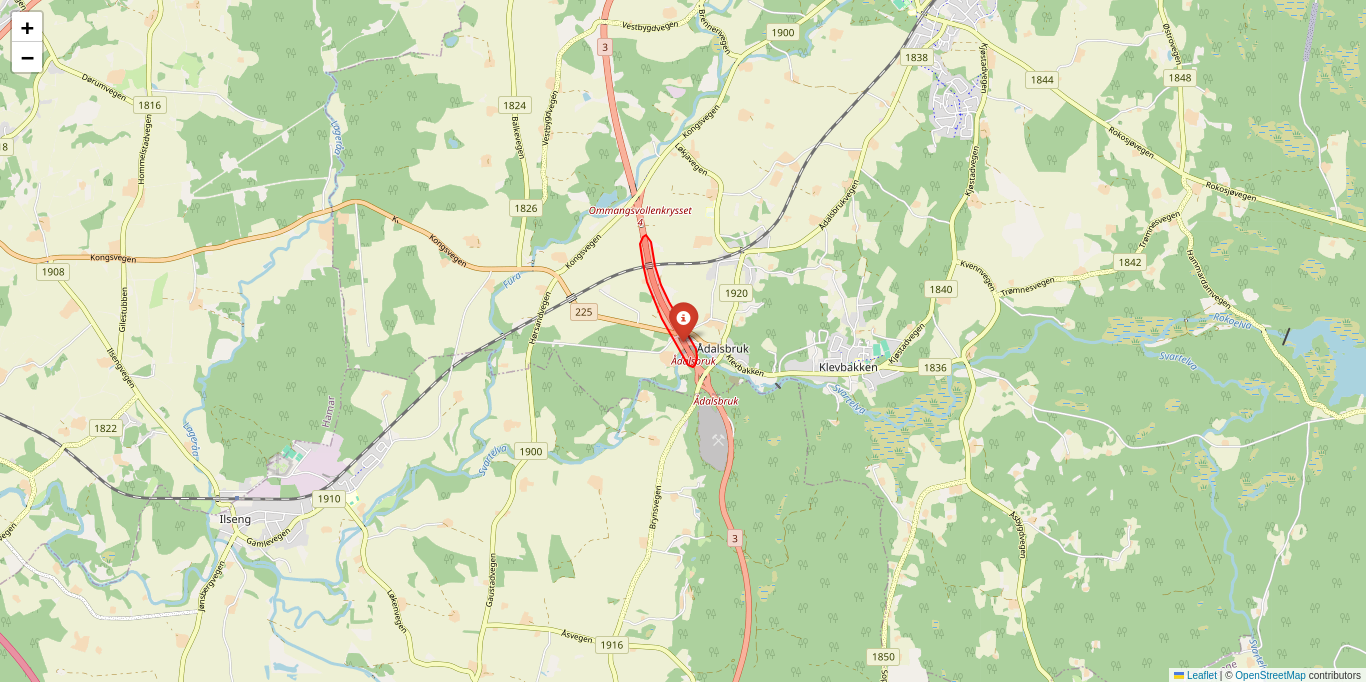
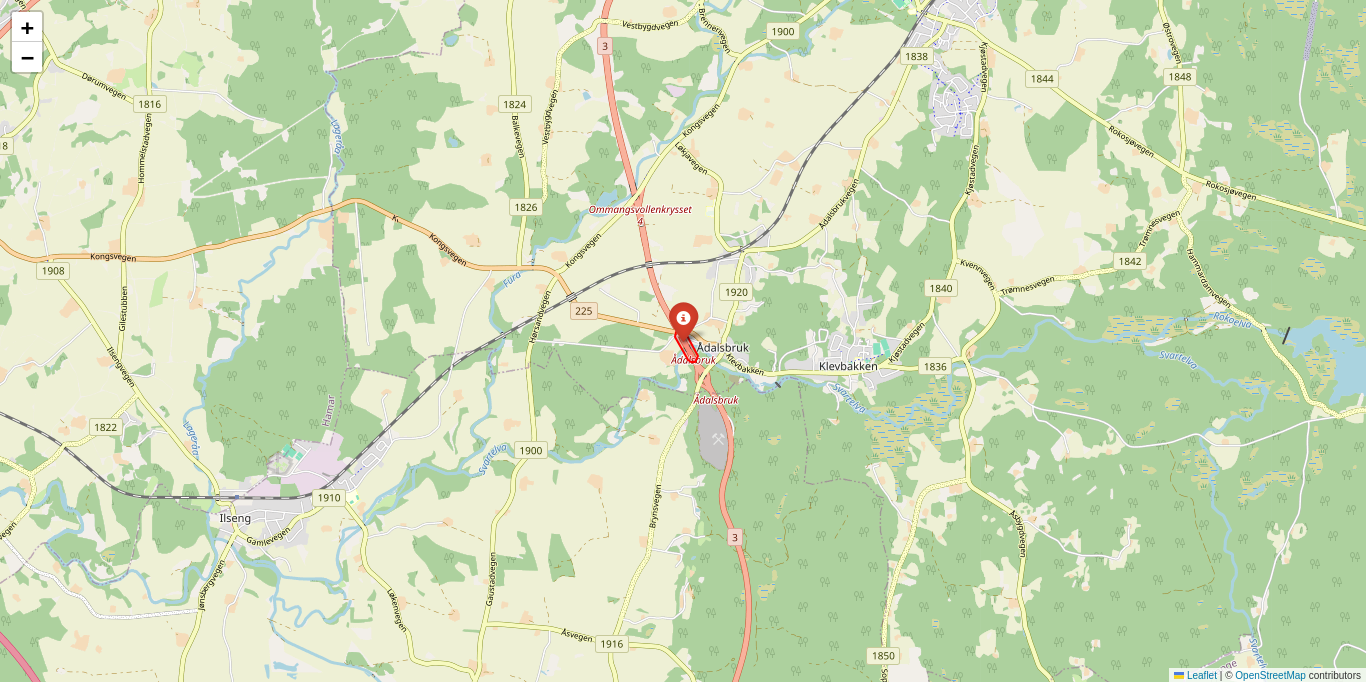
BK74 testing

diff --git a/source/features_dir/estimated_registrations.py b/source/features_dir/estimated_registrations.py
@@ -41,14 +41,14 @@ with open(INTERIM_DATA_DIR / "bridges" / "bridge_coordinates.pkl", "rb") as f:
     BRIDGE_COORDINATES = pickle.load(f)
 
 COORDINATES_BWIM_74T = {
-    'Sørbryn bru (Svartelva)': (60.790036291522725, 11.298908392781641),
-    'Tangensvingen bru (Tangensvingen vest)': (60.88848554945865, 11.570661932248345)
+    "Sørbryn bru (Svartelva)": (60.790036291522725, 11.298908392781641),
+    "Tangensvingen bru (Tangensvingen vest)": (60.88848554945865, 11.570661932248345),
 }
 
 ##################################################
 # region Setup                                   #
-ROAD_COORDINATES = COORDINATES_BWIM_74T          #
-SUBPATH = "bwim74t"                              #
+ROAD_COORDINATES = COORDINATES_BWIM_74T  #
+SUBPATH = "bwim74t"  #
 # endregion                                      #
 ##################################################
 
@@ -250,7 +250,16 @@ def load_polygon_boundary_from_file(road, subpath):
                 polygon_boundary = pickle.load(f).to_crs("EPSG:4326").geometry.iloc[0]
             return polygon_boundary
         else:
-            raise FileNotFoundError(f"No polygon boundary file found for road: {file_path}")
+            file_path = os.path.join(
+                TESTING_DATA_DIR / "estimated_registrations"/
+                f"{sanitize_filename(road)}_boundary.pkl",
+            )
+            if os.path.exists(file_path):
+                with open(file_path, "rb") as f:
+                    polygon_boundary = pickle.load(f).to_crs("EPSG:4326").geometry.iloc[0]
+                return polygon_boundary
+            else:
+                raise FileNotFoundError(f"No polygon boundary file found for road: {file_path}")
 
 
 def table(
@@ -425,20 +434,97 @@ def make_boundaries_automatically(
         with open(storage / f"{sanitize_filename(road)}_boundary.pkl", "wb") as f:
             pickle.dump(buffer_gdf, f)
 
-def percentage_74t_registrations():
-    
-    def get_all_registrations():
-        pass
 
-def main(road_coordinates, testing=False, subpath="testing"):
+def percentage_74t_registrations(subpath: str):
+
+    def get_all_registrations(unsanitized_location: str):
+        """ """
+        sanitized_filename = sanitize_filename(unsanitized_location)
+        df = pd.read_csv(
+            RAW_DATA_DIR
+            / "estimated_registrations"
+            / "total_registrations_bwim74t"
+            / f"{sanitized_filename}.csv",
+            sep=";",
+            encoding_errors="ignore",
+        )
+        df = df[df["Felt"] == "Totalt"]
+        df["Year"] = pd.to_datetime(df["Fra"]).dt.year
+        return df
+
+    processed_data_project_path = PROCESSED_DATA_DIR / "estimated_registrations" / subpath
+
+    df_truck = pd.read_csv(processed_data_project_path / "final-truck_only.csv")
+    df_trailer = pd.read_csv(processed_data_project_path / "final-trailer_only.csv")
+    dfs = [df_truck, df_trailer]
+
+    for i, df_74t in enumerate(dfs):
+        final_info = []
+        for road in df_74t["Vei"].to_list():
+            data = []
+            df_all_registrations_for_road = get_all_registrations(road)
+            for year in [2021, 2022, 2023, 2024]:
+                all_registrations_for_year_in_16_24_category = df_all_registrations_for_road[
+                    df_all_registrations_for_road["Year"] == year
+                ]["16,0m - 24,0m"]
+                all_registrations_for_year_in_above_24_category = df_all_registrations_for_road[
+                    df_all_registrations_for_road["Year"] == year
+                ][">= 24,0m"]
+                all_registrations_year_16_and_above = (
+                    all_registrations_for_year_in_16_24_category
+                    + all_registrations_for_year_in_above_24_category
+                )
+
+                n_74t_registrations_year_road_60 = df_74t[df_74t["Vei"] == road][f"{year} 60t"]
+                n_74t_registrations_year_road_65 = df_74t[df_74t["Vei"] == road][f"{year} 65t"]
+                n_74t_registrations_year_road_68 = df_74t[df_74t["Vei"] == road][f"{year} 68t"]
+                n_74t_registrations_year_road_74 = df_74t[df_74t["Vei"] == road][f"{year} 74t"]
+                n_74t_registrations_year_road_total = (
+                    n_74t_registrations_year_road_60
+                    + n_74t_registrations_year_road_65
+                    + n_74t_registrations_year_road_68
+                    + n_74t_registrations_year_road_74
+                )
+
+                percentage_74t_registrations_year_road = (
+                    n_74t_registrations_year_road_total / all_registrations_year_16_and_above * 100
+                )
+
+                data.append(
+                    {
+                        "År": year,
+                        "60t (3+4)": n_74t_registrations_year_road_60,
+                        "65t (4+4)": n_74t_registrations_year_road_65,
+                        "68t (3+5)": n_74t_registrations_year_road_68,
+                        "74t (4+5)": n_74t_registrations_year_road_74,
+                        "Totalt BK74": n_74t_registrations_year_road_total,
+                        "Prosent BK74": percentage_74t_registrations_year_road,
+                    }
+                )
+
+            df = pd.DataFrame(data)
+            os.makedirs(processed_data_project_path / "percentages", exist_ok=True)
+            df.to_csv(
+                processed_data_project_path
+                / "percentages"
+                / f"{'trailer' if i else 'truck'}_percentages{road}.csv",
+                index=False,
+            )
+            caption = f"Prosentandel BK74 {'tilhenger' if i else 'lastebil'}-registreringer av alle trafikkdata-registreringer for {road}"
+            final_info.append((df, caption))
+
+    return final_info
+
+
+def main(road_coordinates, testing=False, subpath="testing", testfile='input.csv', testoutput='output.csv'):
     for mode in ["trailer_only", "truck_only"]:
 
-        process_and_save_df(mode)
+        # process_and_save_df(mode)
 
         df = (
             pd.read_csv(f"{INTERIM_DATA_DIR / 'estimated_registrations'}/processed-{mode}.csv")
             if not testing
-            else pd.read_csv(f"{TESTING_DATA_DIR / 'estimated_registrations'}/input.csv")
+            else pd.read_csv(f"{TESTING_DATA_DIR / 'estimated_registrations' / testfile}")
         )
 
         df_table = table(
@@ -452,7 +538,7 @@ def main(road_coordinates, testing=False, subpath="testing"):
         output_file = (
             PROCESSED_DATA_DIR / "estimated_registrations" / subpath / f"final-{mode}.csv"
             if not testing
-            else f"{TESTING_DATA_DIR / 'estimated_registrations'}/output.csv"
+            else f"{TESTING_DATA_DIR / 'estimated_registrations' / testoutput}"
         )
 
         os.makedirs(Path(output_file).parent, exist_ok=True)

diff --git a/source/report.py b/source/report.py
@@ -11,8 +11,8 @@ from source.config import MODE_ESTIMATED_REGISTRATIONS
 from source.config import MODE_VEHICLE_WEIGHT_74T
 from source.config import MODE_VEHICLE_WEIGHT_WIM
 from source.config import MODE_WIM_ROAD_WEAR_INDICATORS
-from source.config import PROCESSED_DATA_DIR
-from source.config import WIM_ROAD_WEAR_INDICATORS_DIR
+from source.config import PROCESSED_DATA_DIR, REPORTS_DIR
+from source.config import WIM_ROAD_WEAR_INDICATORS_DIR, MODE_ESTIMATED_REGISTRATIONS_PERCENTAGES
 from source.features_dir import estimated_registrations
 from source.utils import should_run_task
 
@@ -253,6 +253,7 @@ def generate_latex_catalog(
         if temp_file.exists():
             os.remove(temp_file)
 
+
 def generate_latex_with_multiple_tables(
     output_dir: Path,
     filename: str,
@@ -349,6 +350,7 @@ def generate_latex_with_multiple_tables(
         temp_file = latex_file.with_suffix(f".{ext}")
         if temp_file.exists():
             os.remove(temp_file)
+
 
 def generate_latex_with_table(
     output_dir: Path,
@@ -453,7 +455,7 @@ def main(
     # ---- REPLACE DEFAULT PATHS AS APPROPRIATE ----
     input_path: Path = config.AXLE_LOAD_W_N200_AND_ESAL_FIGURES_DIR,
     output_path: Path = config.AXLE_LOAD_W_N200_AND_ESAL_DIR,
-    mode: int = 5,
+    mode: int = 6,
     # ----------------------------------------------
 ):
 
@@ -516,6 +518,15 @@ def main(
             / f"{estimated_registrations.SUBPATH}/imageinputs.tex",
             estimated_registrations.SUBPATH,
         )
+
+    if should_run_task(mode, MODE_ESTIMATED_REGISTRATIONS_PERCENTAGES):
+        generate_latex_with_multiple_tables(
+            output_dir=REPORTS_DIR / "estimated_registrations" / estimated_registrations.SUBPATH,
+            filename=f"percentage_74t_registrations",
+            title=f"Prosentandel BK74 registreringer av alle trafikkdata-registreringer",
+            info=estimated_registrations.percentage_74t_registrations(estimated_registrations.SUBPATH),
+        )
+
 
 
 if __name__ == "__main__":

diff --git a/source/plot_scripts/estimated_registrations.py b/source/plot_scripts/estimated_registrations.py
@@ -1,13 +1,15 @@
+import math
 import os
 import pickle
-import math
-from io import BytesIO
 import time
+from io import BytesIO
+
 import folium
 import geopandas as gpd
+from PIL import Image
 from selenium import webdriver
 from selenium.webdriver.firefox.service import Service as FirefoxService
-from PIL import Image
+
 from source.config import ESTIMATED_REGISTRATIONS_74T_DIR
 from source.config import INTERIM_DATA_DIR
 from source.features_dir import estimated_registrations
@@ -32,7 +34,7 @@ def main(road_coordinates, pickle_path, figures_dir):
 
     options = webdriver.FirefoxOptions()
     options.add_argument("--headless")
-    service = FirefoxService(executable_path='/snap/bin/geckodriver')
+    service = FirefoxService(executable_path="/snap/bin/geckodriver")
     driver = webdriver.Firefox(service=service, options=options)
 
     keys = list(road_coordinates.keys())
@@ -66,7 +68,11 @@ def main(road_coordinates, pickle_path, figures_dir):
             boundary = pickle.load(f)
 
         # Ensure boundary is a GeoDataFrame
-        boundary_gdf = gpd.GeoDataFrame(geometry=[boundary], crs="EPSG:4326") if not isinstance(boundary, gpd.GeoDataFrame) else boundary
+        boundary_gdf = (
+            gpd.GeoDataFrame(geometry=[boundary], crs="EPSG:4326")
+            if not isinstance(boundary, gpd.GeoDataFrame)
+            else boundary
+        )
 
         # Add boundary as GeoJSON
         folium.GeoJson(

diff --git a/testing/test_estimated_registrations.py b/testing/test_estimated_registrations.py
@@ -1,12 +1,29 @@
 from source.features_dir import estimated_registrations
 import pandas as pd
 from source.config import TESTING_DATA_DIR
+import pytest
 
 def test_estimated_registrations():
 
-    estimated_registrations.main(testing=True)
+    estimated_registrations.main(road_coordinates=estimated_registrations.COORDINATE_POINTS_ROADS, testing=True)
 
     df_output = pd.read_csv(TESTING_DATA_DIR / 'estimated_registrations/output.csv')
     df_expected = pd.read_csv(TESTING_DATA_DIR / 'estimated_registrations/expected.csv')
 
     assert df_output.equals(df_expected)
+
+def test_updated_boundaries():
+    estimated_registrations.main(
+        road_coordinates=estimated_registrations.COORDINATES_BWIM_74T,
+        testing=True,
+        testfile='test_boundaries_input.csv',
+        testoutput='test_output_boundaries.csv'
+    )
+
+    df_output = pd.read_csv(TESTING_DATA_DIR / 'estimated_registrations/test_output_boundaries.csv')
+    df_expected = pd.read_csv(TESTING_DATA_DIR / 'estimated_registrations/test_expected_boundaries.csv')
+
+    try:
+        pd.testing.assert_frame_equal(df_output, df_expected, check_dtype=False)
+    except AssertionError as e:
+        pytest.fail(f"DataFrames are not equal:\n{e}")

diff --git a/source/config.py b/source/config.py
@@ -50,6 +50,9 @@ WIM_ROAD_WEAR_INDICATORS_DIR = REPORTS_DIR / "wim_road_wear_indicators"
 MODE_ESTIMATED_REGISTRATIONS = 5
 ESTIMATED_REGISTRATIONS_74T_DIR = REPORTS_DIR / "estimated_registrations"
 ESTIMATED_REGISTRATIONS_74T_FIGURES_DIR = ESTIMATED_REGISTRATIONS_74T_DIR / "figures"
+
+MODE_ESTIMATED_REGISTRATIONS_PERCENTAGES = 6
+ESTIMATED_REGISTRATIONS_74T_PERCENTAGES_FIGURES_DIR = ESTIMATED_REGISTRATIONS_74T_DIR / "figures"
 # endregion
 ##################################################
 
